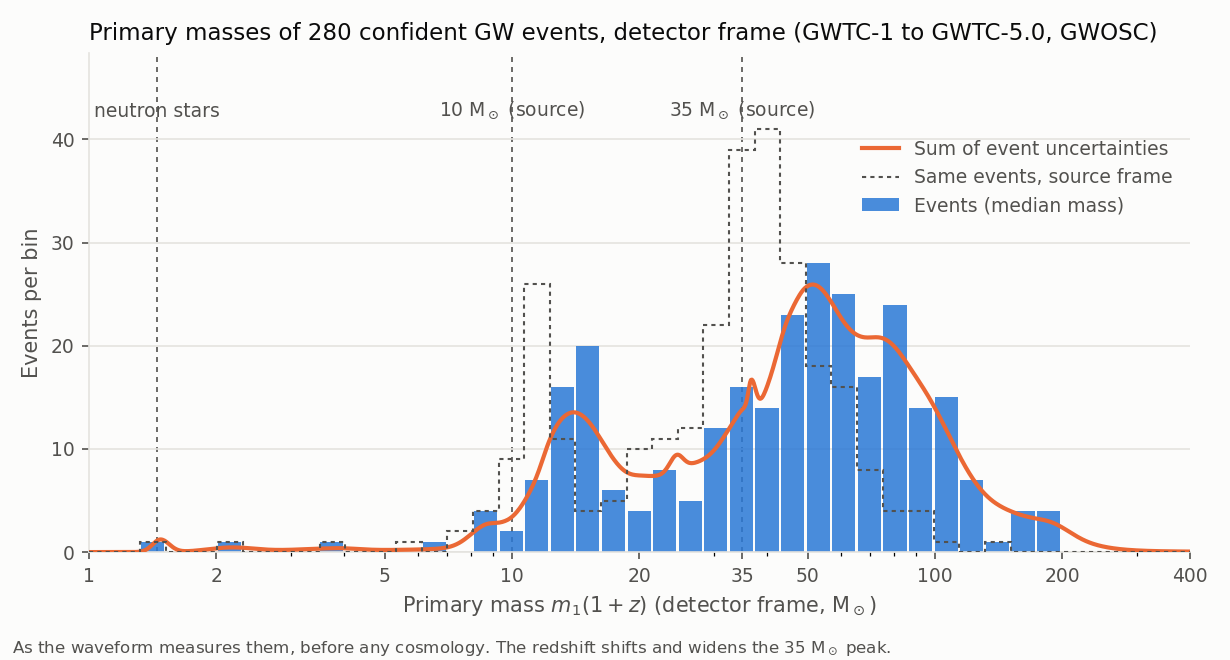
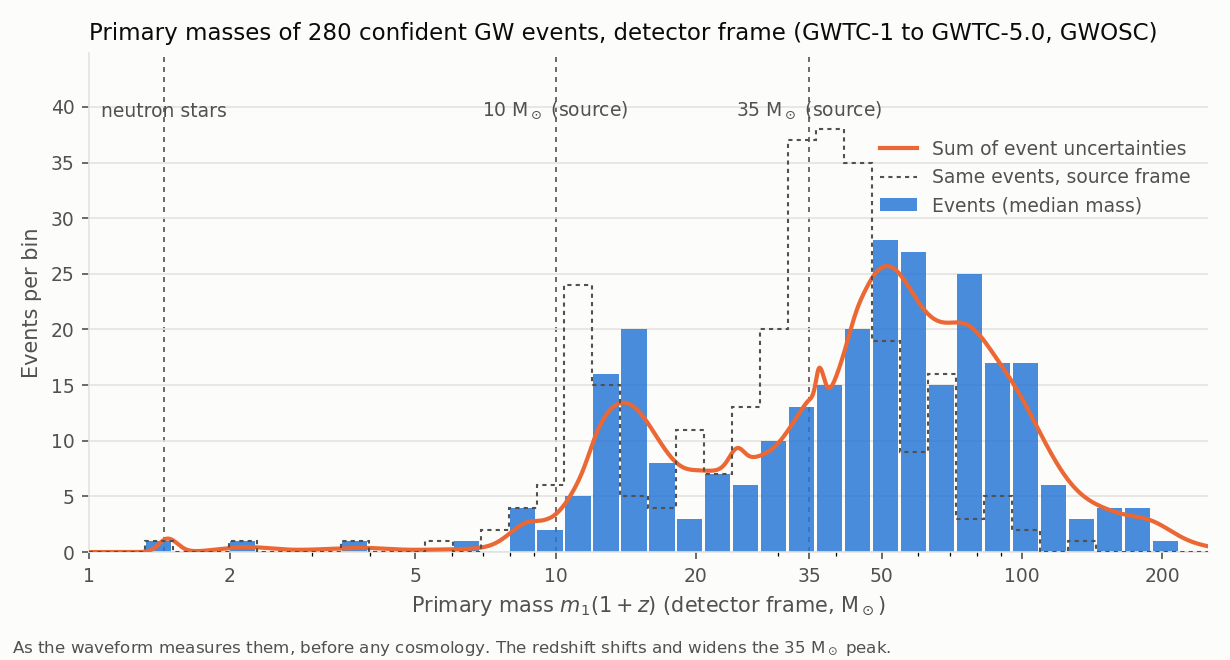
docs home, detector-frame mass figure: x axis 1-250 Msun with the same 41 log bins as the source-frame figure

diff --git a/docs/scripts/mass_distribution_detector_frame.py b/docs/scripts/mass_distribution_detector_frame.py
@@ -32,7 +32,7 @@ print(f"{len(m1)} events with m1_source and z; detector frame {m1.min():.2f}-{m1
       f"median z {np.median(z):.2f}")
 
 # Stacked uncertainty: each event as a split normal in ln m, from its 90% interval scaled by (1 + z)
-grid = np.logspace(0, np.log10(400), 1200)
+grid = np.logspace(0, np.log10(250), 1200)
 lg = np.log(grid)
 dens = np.zeros_like(grid)
 for m, lo, hi, zz in events.values():
@@ -42,7 +42,7 @@ for m, lo, hi, zz in events.values():
     s = np.where(lg < np.log(m), s_lo, s_hi)
     dens += np.exp(-0.5 * ((lg - np.log(m)) / s) ** 2) * 2 / (np.sqrt(2 * np.pi) * (s_lo + s_hi))
 
-bins = np.logspace(0, np.log10(400), 44)
+bins = np.logspace(0, np.log10(250), 41)
 dlog = np.log(bins[1]) - np.log(bins[0])
 counts, _ = np.histogram(m1, bins)
 counts_src, _ = np.histogram(m1_src, bins)
@@ -55,9 +55,9 @@ ax.bar(centers, counts, width=widths * 0.9, color=BLUE, alpha=0.85, linewidth=0,
 ax.plot(grid, dens * dlog, color=ORANGE, lw=2, label="Sum of event uncertainties", zorder=3)
 ax.stairs(counts_src, bins, color=INK2, lw=1, ls=(0, (2, 2)), label="Same events, source frame", zorder=3)
 ax.set_xscale("log")
-ax.set_xlim(1, 400)
-ax.set_xticks([1, 2, 5, 10, 20, 35, 50, 100, 200, 400])
-ax.set_xticklabels(["1", "2", "5", "10", "20", "35", "50", "100", "200", "400"])
+ax.set_xlim(1, 250)
+ax.set_xticks([1, 2, 5, 10, 20, 35, 50, 100, 200])
+ax.set_xticklabels(["1", "2", "5", "10", "20", "35", "50", "100", "200"])
 ax.set_xlabel("Primary mass $m_1(1+z)$ (detector frame, M$_\\odot$)", color=INK2)
 ax.set_ylabel("Events per bin", color=INK2)
 ax.grid(axis="y", color=GRID, lw=0.8, zorder=0)
@@ -79,5 +79,5 @@ fig.text(0.01, 0.01, "As the waveform measures them, before any cosmology. The r
 fig.tight_layout(rect=(0, 0.03, 1, 1))
 fig.savefig(Path(__file__).resolve().parents[1] / "img" / "mass_distribution_detector_frame.png", facecolor=SURFACE)
 
-for lo_, hi_ in ((1, 3), (3, 6), (6, 15), (15, 25), (25, 45), (45, 80), (80, 400)):
+for lo_, hi_ in ((1, 3), (3, 6), (6, 15), (15, 25), (25, 45), (45, 80), (80, 250)):
     print(f"  m1(1+z) {lo_:>3}-{hi_:<3} Msun: {int(((m1 >= lo_) & (m1 < hi_)).sum()):3d} events")
